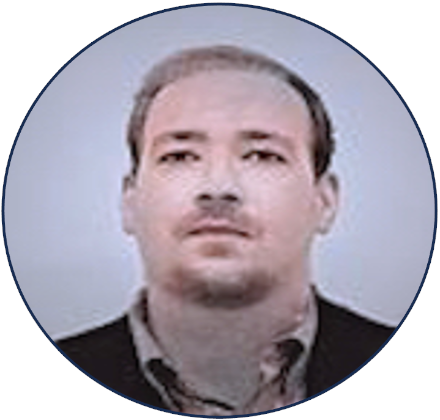
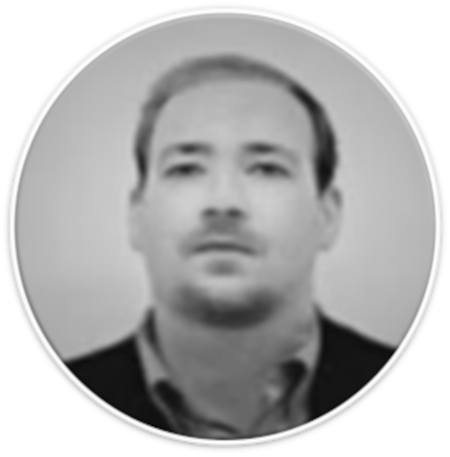
Add files via upload

diff --git a/islt_7310/style.css b/islt_7310/style.css
@@ -9,13 +9,20 @@
 }
 
 body {
+  
     font-family: "Avenir", "Baskerville" sans-serif;
     margin: 0;
     padding-top: 70px;
+  }
+
+  .content-background {
+    background-image: url('interiorsplash.jpeg');
     background-size: cover;
     background-repeat: no-repeat;
     background-position: center;
-  }
+    background-attachment: fixed;
+    min-height: 100vh;
+}
 
   header {
     text-align: left;
@@ -204,6 +211,12 @@ body {
 }
 
   footer {
+    background-image: url('images/footer_background.png');
+    background-size: cover;
+    background-repeat: no-repeat;
+    background-position: center;
+    padding-left: 24px;
+    width: 100%;
     border-top: 1px solid black; 
     text-align: left;
     padding: 20px 0;
@@ -211,8 +224,17 @@ body {
     clear: both;
   }
 
+  footer p {
+    padding-left: 20px;
+  }
 
-                                      /* MOBILE VERSION */
+  .contact-icon {
+    height: 20px;  
+    width: auto; 
+    margin-right: 10px;
+}
+
+   ////////////////////////////// /* MOBILE VERSION */ ////////////////////////////
 
   @media only screen and (max-width: 766px) {
       
@@ -240,21 +262,18 @@ body {
 }
 
 .content-wrapper {
-  width: 85%;
+  width: 100%;
+
 } 
 /* About Me Page */
 
-.about-headshot {
-      width: 60%;
-      height: auto;
-      object-fit: cover;
-    }
+.header-container {
+  flex-direction: column;
+  align-items: center;
+}
 
-.about-headshot img {
-  filter: grayscale(100%);
-  width: 60%;
-  height: auto;
-  margin: auto;
+.about-image {
+  margin-bottom: 20px;
 }
 
 
@@ -342,14 +361,10 @@ body {
       text-indent: 0;
       text-align: left;
     }
-  
-  footer {
-    margin-left: 24px;
-  }
 
 }
 
-/* DESKTOP VERSION */
+///////////////////////////////* DESKTOP VERSION */////////////////////////////
 
   @media only screen and (min-width: 767px) {
     main .header-container {
@@ -357,13 +372,13 @@ body {
       align-items: center;
     }
 
-    .about-headshot {
-      margin-right: 0px; 
+    .about-image {
+      filter: grayscale(100%);
+      width: 60%;
+      height: 20px;
+      margin: 20px;
     }
 
-    .about-headshot img {
-      filter: grayscale(100%);
-      width: 75%;
     }
 
     .after-headshot {
